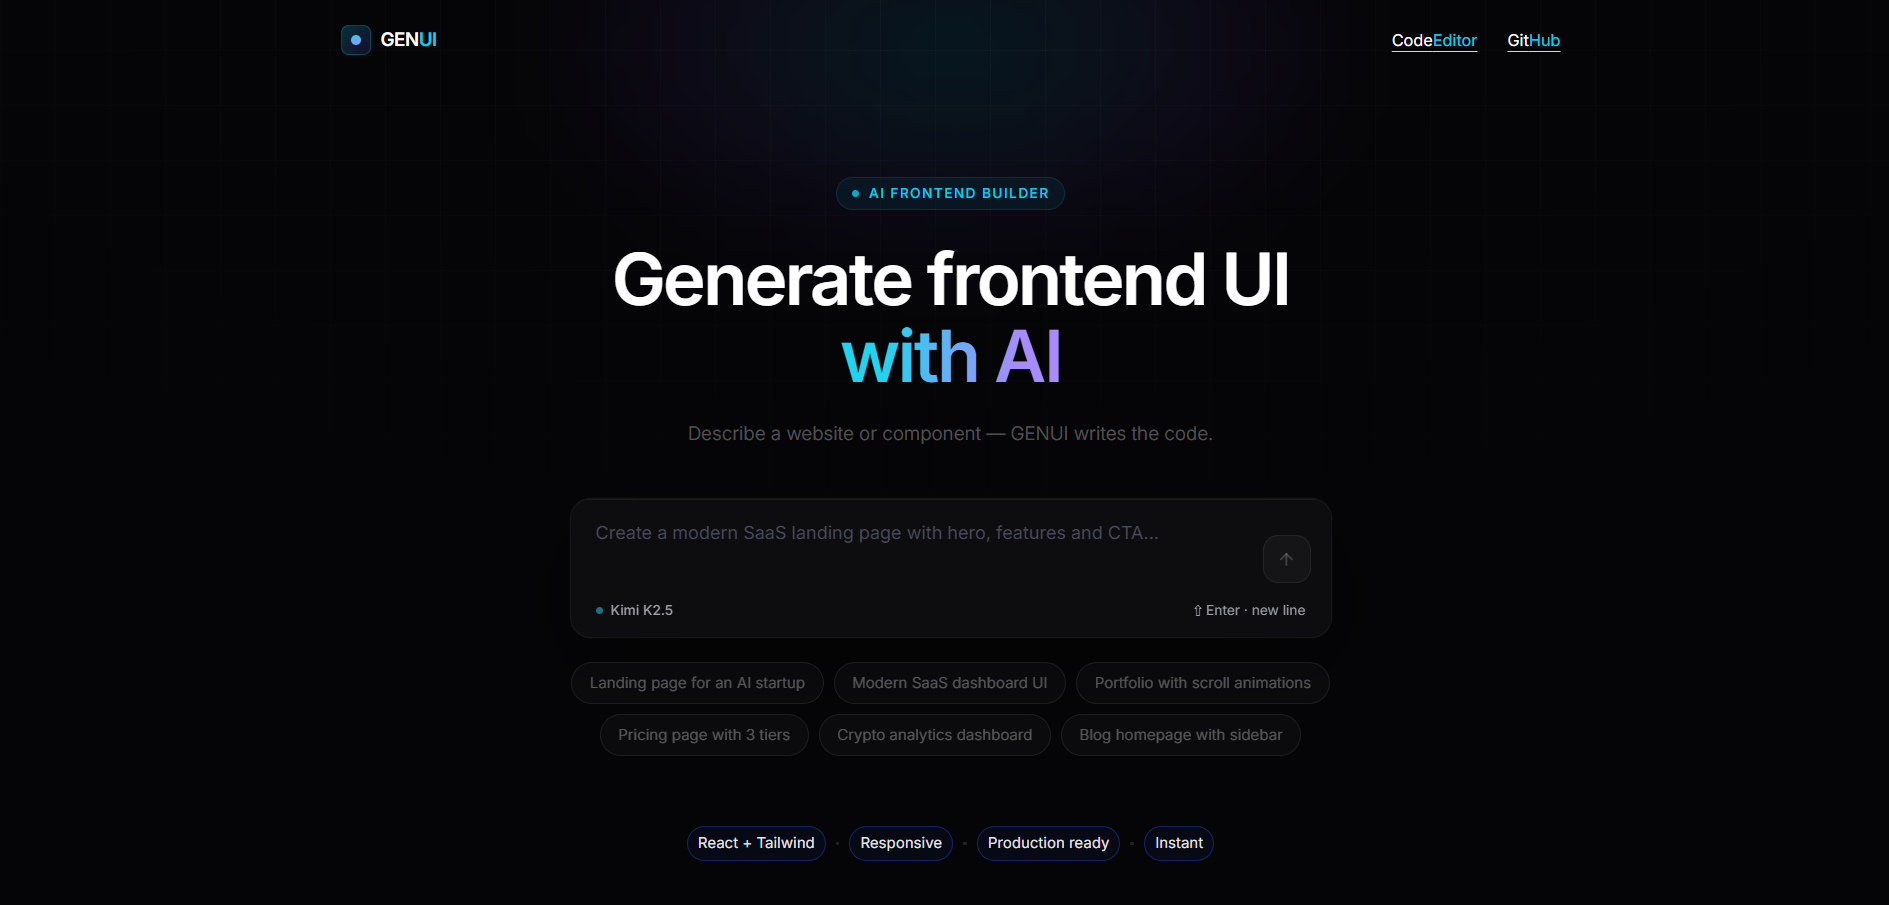
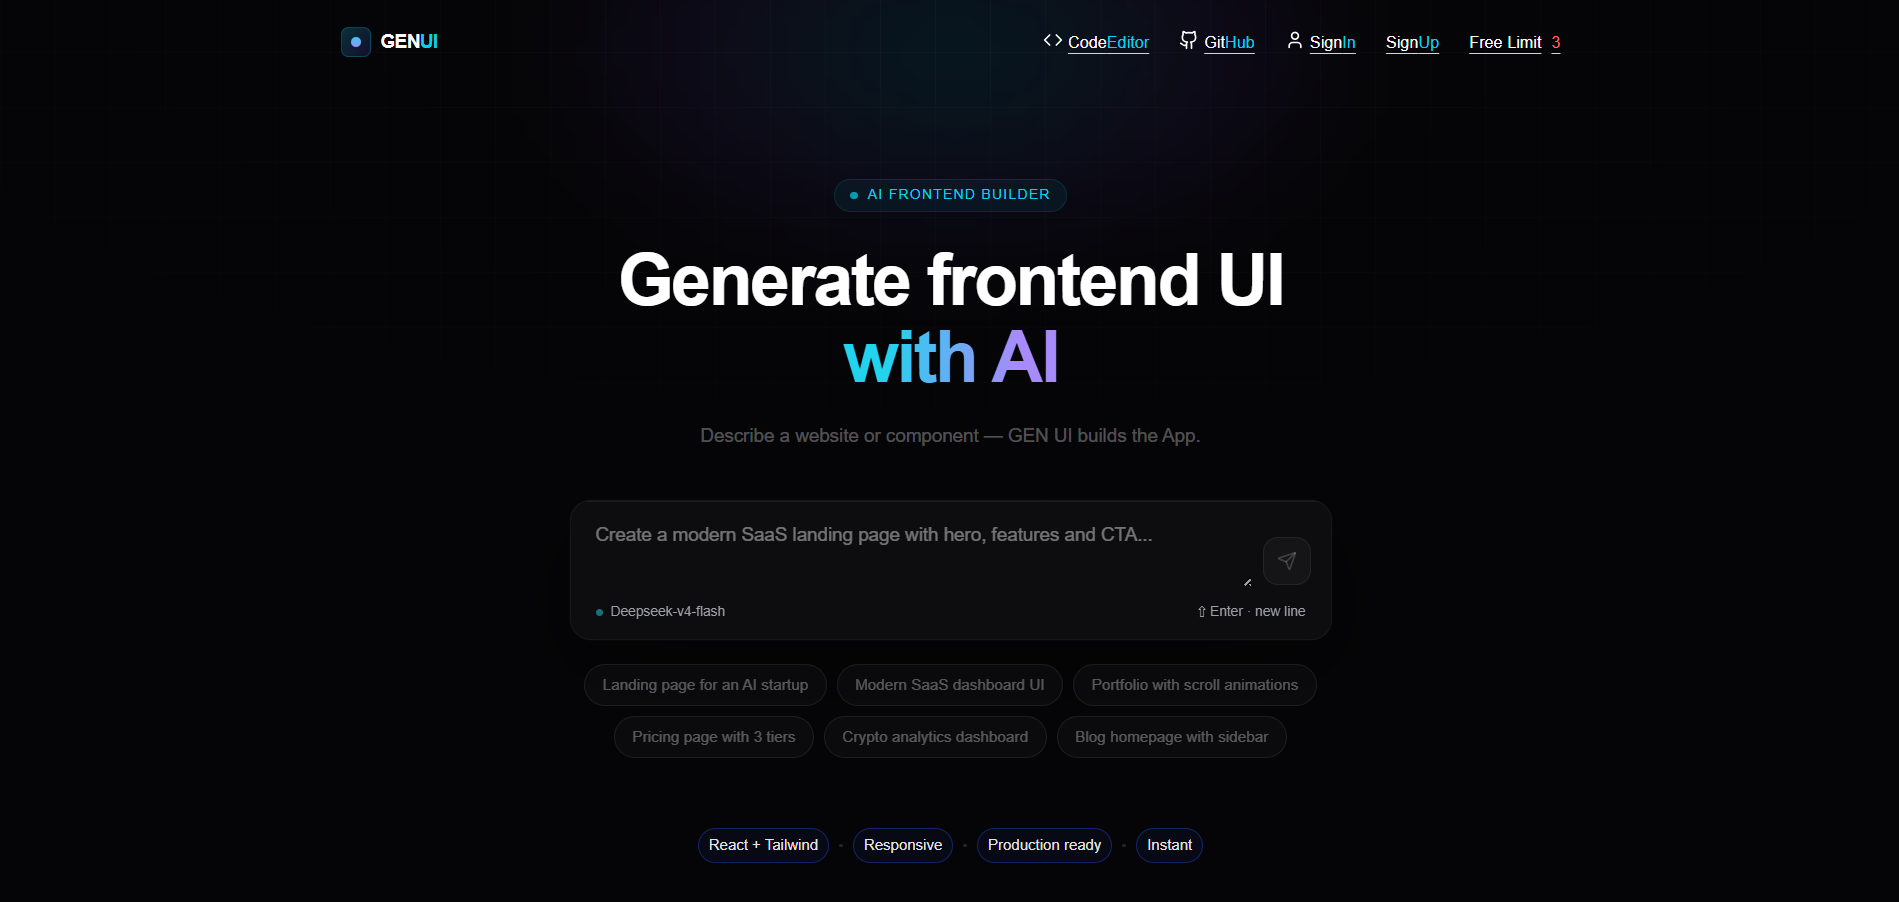
Updated images - Gen UI

diff --git a/src/lib/projects.ts b/src/lib/projects.ts
@@ -141,7 +141,7 @@ export const projects: Project[] = [
     role: "AI frontend generator",
     tagline: "A prompt becomes a complete React application.",
     summary:
-      "Gen UI generates multi-file frontend projects from a single prompt — with a structured file tree, integrated editor, live preview, AI error correction, AI Assistant for file updation and downloadable, shareable output.",
+      "Gen UI generates multi-file frontend projects from a single prompt — with a structured file tree, integrated editor, live preview, AI error correction, AI Assistant for file updation and downloadable, shareable output , persist generations in database.",
     features: [
       "Full multi-file project generation",
       "Clean component structure",
@@ -150,12 +150,14 @@ export const projects: Project[] = [
       "Downloadable code",
       "Shareable live link",
       "UI Assistant for file updation",
+      "Clerk Authentication"
     ],
     tech: [
       "Next.js",
       "LangChain",
       "Fireworks AI · Deepseek-v4-flash",
       "Groq",
+      "MongoDB",
       "CodeSandbox",
       "Motion",
       "Zustand",
